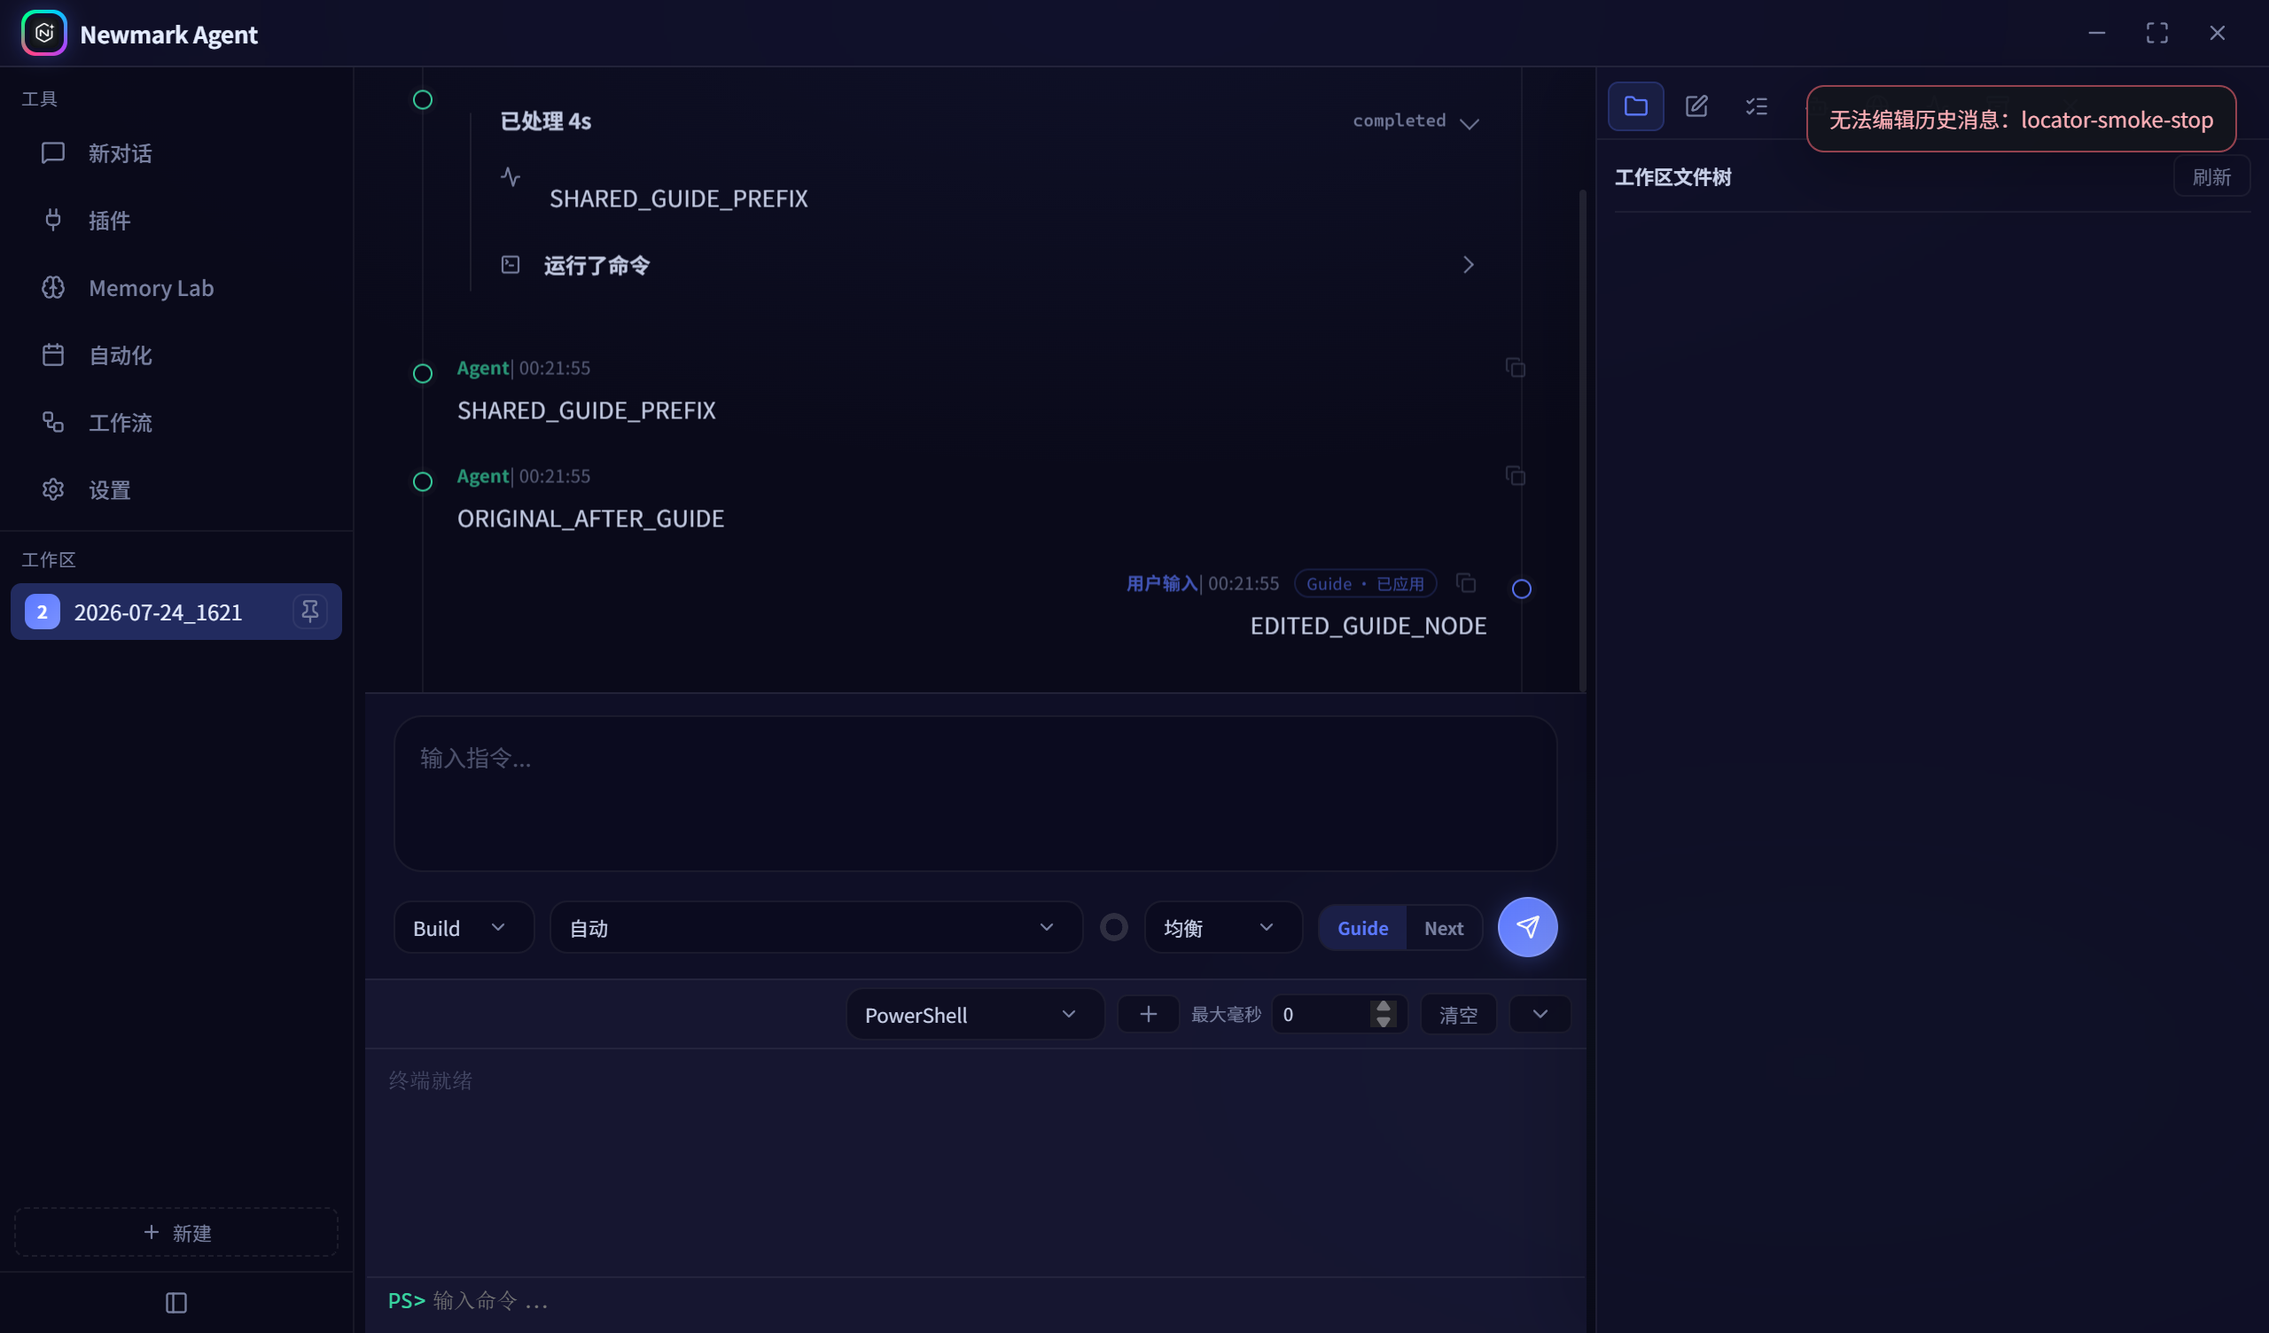
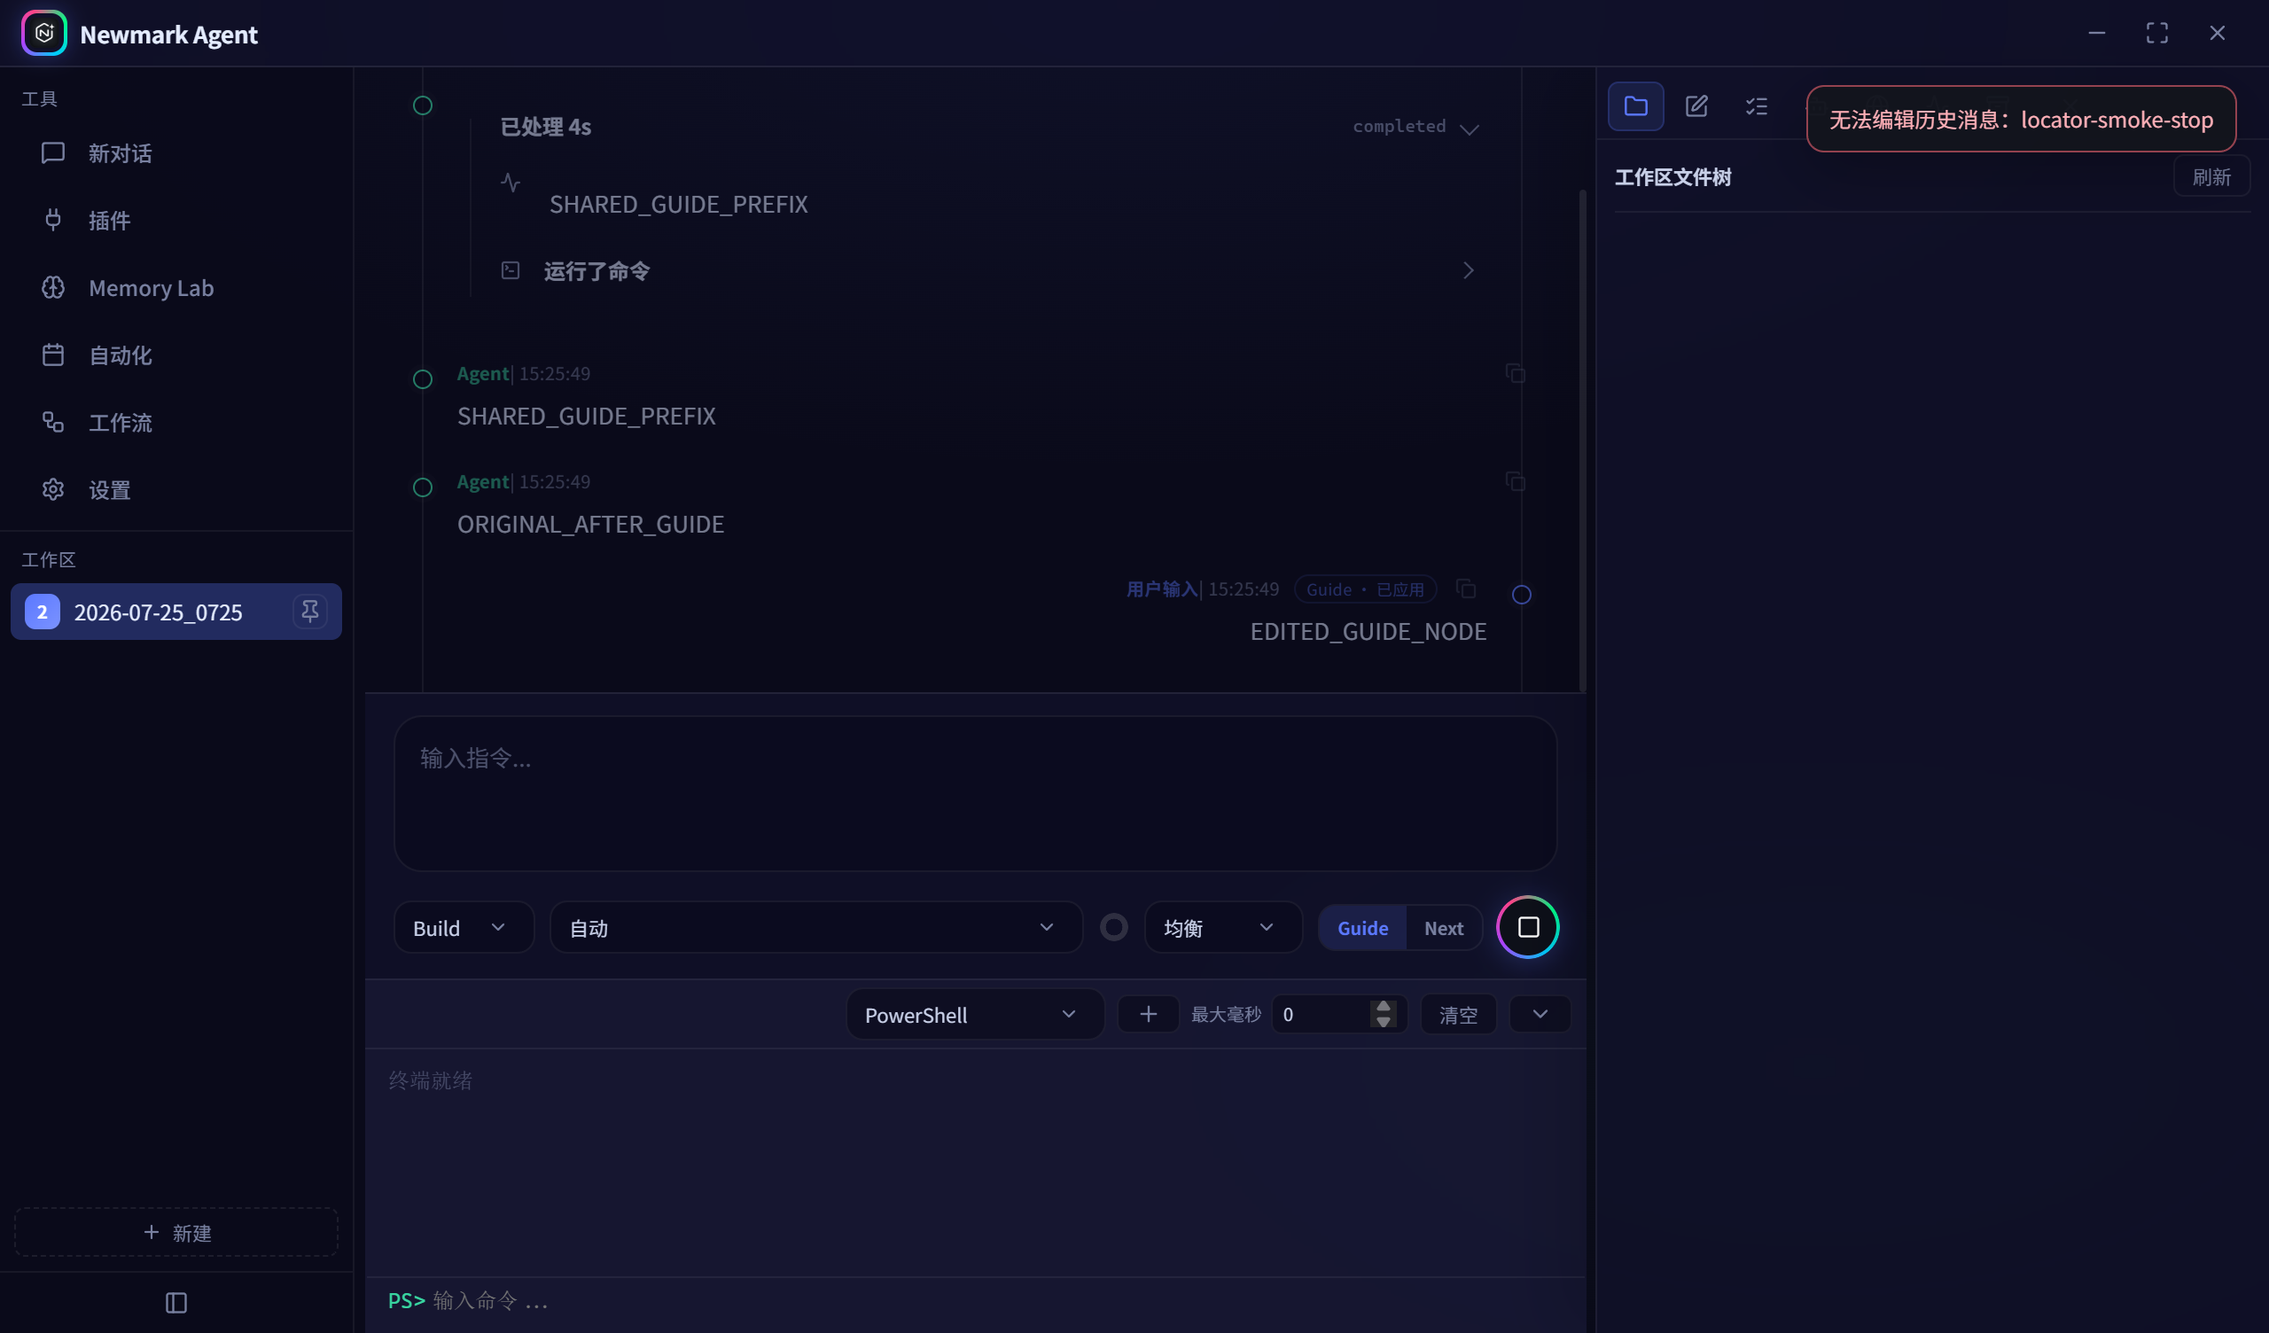
fix: isolate live work runs by conversation branch

diff --git a/DESKTOP/src/ui/index.html b/DESKTOP/src/ui/index.html
@@ -4903,6 +4903,7 @@ var state = {
   agentWorkEventsByConversation: {},
   agentWorkUiByConversation: {},
   workRunsByTarget: {},
+  workRunsByBranch: {},
   guideMessagesByTarget: {},
   agentWorkEventLimit: 240,
   foregroundConversationHoldId: '',
@@ -7244,7 +7245,6 @@ window.switchConversationBranch = async function(offset, branchGroupId) {
   var result = await branchApi.inspectConversationBranch(currentConversationTarget(), branches[next].id, group ? group.id : (state.activeConversationBranchGroupId || ''));
   if (!result || result.error) return showUiNotice((result && result.error) || 'Unable to switch branch.', 'error', 'conversation-branch');
   var target = currentConversationTarget();
-  clearAgentWorkEvents(target.conversationId);
   resetConversationWorkUi(target.conversationId, false, target.workspaceId);
   state.conversationBranches = result.branches || [];
   state.conversationBranchGroups = Array.isArray(result.branchGroups) ? result.branchGroups : [];
@@ -7253,6 +7253,7 @@ window.switchConversationBranch = async function(offset, branchGroupId) {
   state.activeConversationBranchGroupId = String(result.branchGroupId || state.activeConversationBranchGroupId || '');
   syncWorkRunsSnapshot(Array.isArray(result.workRuns) ? result.workRuns : [], target);
   renderChatMessages(result.chatMessages || []);
+  if (isViewingRuntimeConversationBranch(target)) replayActiveAgentWorkEvents();
 };
 
 function isViewingRuntimeConversationBranch(target) {
@@ -7731,7 +7732,7 @@ function registerRuntimeKey(target, runtimeKey) {
   if (!state.runtimeKeyAliases) state.runtimeKeyAliases = {};
   state.runtimeKeyAliases[base] = runtimeKey;
   if (previous !== runtimeKey) {
-    ['runningConversations', 'conversationRuntimeStates', 'agentWorkEventsByConversation', 'agentWorkUiByConversation', 'workRunsByTarget', 'guideMessagesByTarget', 'trackedConversationUntil', 'backendQueuesByTarget', 'activeSendCallsByTarget', 'nextQueueSchedulesByTarget', 'nextQueueDrainsByTarget'].forEach(function(storeName) {
+    ['runningConversations', 'conversationRuntimeStates', 'agentWorkEventsByConversation', 'agentWorkUiByConversation', 'workRunsByTarget', 'workRunsByBranch', 'guideMessagesByTarget', 'trackedConversationUntil', 'backendQueuesByTarget', 'activeSendCallsByTarget', 'nextQueueSchedulesByTarget', 'nextQueueDrainsByTarget'].forEach(function(storeName) {
       var store = state[storeName];
       if (!store || store[previous] === undefined) return;
       if (store[runtimeKey] === undefined) store[runtimeKey] = store[previous];
@@ -7924,7 +7925,8 @@ function setConversationRuntimeState(target, status, runId, extra) {
   if (!state.runningConversations) state.runningConversations = {};
   if (['running', 'stopping', 'force_restarting'].indexOf(next.status) >= 0) state.runningConversations[key] = next;
   else delete state.runningConversations[key];
-  var runs = state.workRunsByTarget && state.workRunsByTarget[key] || [];
+  var branchIds = conversationBranchIdsForTarget(target);
+  var runs = workRunsForBranch(target, branchIds.runtime || branchIds.viewed);
   var matchingRun = next.runId && runs.find(function(item) { return String(item.runId || '') === next.runId; });
   if (matchingRun) {
     matchingRun.status = next.status;
@@ -7932,7 +7934,10 @@ function setConversationRuntimeState(target, status, runId, extra) {
       if (!matchingRun.endedAt) matchingRun.endedAt = new Date().toISOString();
       if (matchingRun.userToggled !== true) matchingRun.expanded = false;
     }
-    if (isActiveConversationTarget(next.target)) updateConversationWorkRunElement(matchingRun);
+    if (isActiveConversationTarget(next.target) && (!branchIds.viewed || !branchIds.runtime || branchIds.viewed === branchIds.runtime)) {
+      state.workRunsByTarget[key] = runs;
+      updateConversationWorkRunElement(matchingRun);
+    }
   }
   state._sendInFlight = Object.keys(state.runningConversations).length > 0;
   return next;
@@ -8095,19 +8100,46 @@ function normalizedWorkRun(run, target) {
   };
 }
 
+function conversationBranchIdsForTarget(target) {
+  target = target || currentConversationTarget();
+  if (!isActiveConversationTarget(target)) return { viewed: '', runtime: '' };
+  return {
+    viewed: String(state.activeConversationBranchId || ''),
+    runtime: String(state.runtimeConversationBranchId || state.activeConversationBranchId || '')
+  };
+}
+
+function workRunBranchKey(target, branchId) {
+  var runtimeKey = runtimeKeyFor(target.workspaceId, target.conversationId);
+  return runtimeKey + '::branch::' + String(branchId || 'linear');
+}
+
+function workRunsForBranch(target, branchId) {
+  target = target || currentConversationTarget();
+  if (!state.workRunsByBranch) state.workRunsByBranch = {};
+  var key = workRunBranchKey(target, branchId);
+  if (!state.workRunsByBranch[key]) state.workRunsByBranch[key] = [];
+  return state.workRunsByBranch[key];
+}
+
 function workRunsForTarget(target) {
   target = target || currentConversationTarget();
   var key = runtimeKeyFor(target.workspaceId, target.conversationId);
   if (!state.workRunsByTarget) state.workRunsByTarget = {};
-  if (!state.workRunsByTarget[key]) state.workRunsByTarget[key] = [];
+  if (!state.workRunsByTarget[key]) {
+    var branchIds = conversationBranchIdsForTarget(target);
+    state.workRunsByTarget[key] = workRunsForBranch(target, branchIds.viewed);
+  }
   return state.workRunsByTarget[key];
 }
 
-function syncWorkRunsSnapshot(runs, target) {
+function syncWorkRunsSnapshot(runs, target, branchId) {
   target = target || currentConversationTarget();
   syncGuideMessagesFromWorkRuns(runs, target);
   var key = runtimeKeyFor(target.workspaceId, target.conversationId);
-  var prior = workRunsForTarget(target);
+  var branchIds = conversationBranchIdsForTarget(target);
+  var selectedBranchId = branchId === undefined ? branchIds.viewed : String(branchId || '');
+  var prior = workRunsForBranch(target, selectedBranchId);
   var normalized = (Array.isArray(runs) ? runs : []).map(function(run) {
     var item = normalizedWorkRun(run, target);
     var previous = prior.find(function(priorRun) { return priorRun.runId === item.runId; });
@@ -8119,8 +8151,24 @@ function syncWorkRunsSnapshot(runs, target) {
       var isLive = ['running', 'stopping', 'force_restarting'].indexOf(item.status) >= 0;
       item.expanded = isLive ? true : (wasLive ? false : item.expanded);
     }
+    if (previous) {
+      var snapshotEventIds = {};
+      item.events.forEach(function(event) { snapshotEventIds[String(event.id || '')] = true; });
+      var liveOnlyEvents = previous.events.filter(function(event) {
+        return !snapshotEventIds[String(event.id || '')] && Number(event.sequence || 0) > Number(item.sequence || 0);
+      });
+      if (liveOnlyEvents.length) {
+        item.events = dedupeGuideWorkEvents(item.events.concat(liveOnlyEvents)).sort(function(a, b) { return Number(a.sequence || 0) - Number(b.sequence || 0); });
+        item.sequence = Math.max(Number(item.sequence || 0), Number(previous.sequence || 0));
+        if (['running', 'stopping', 'force_restarting'].indexOf(String(previous.status || '')) >= 0) {
+          item.status = previous.status;
+          item.endedAt = previous.endedAt;
+        }
+      }
+    }
     return item;
   });
+  state.workRunsByBranch[workRunBranchKey(target, selectedBranchId)] = normalized;
   state.workRunsByTarget[key] = normalized;
   return normalized;
 }
@@ -8631,7 +8679,9 @@ function applyAgentWorkEventToRun(event) {
     workspaceId: String(event.workspaceId || (event.target && event.target.workspaceId) || runtimeWorkspaceId('')),
     conversationId: String(event.conversationId || (event.target && event.target.conversationId) || 'default')
   };
-  var runs = workRunsForTarget(target);
+  var branchIds = conversationBranchIdsForTarget(target);
+  var eventBranchId = branchIds.runtime || branchIds.viewed;
+  var runs = workRunsForBranch(target, eventBranchId);
   var run = runs.find(function(item) { return item.runId === String(event.runId); });
   if (!run) {
     run = normalizedWorkRun({ runId: event.runId, status: 'running', startedAt: event.startedAt || event.timestampIso || new Date().toISOString(), events: [] }, target);
@@ -8663,6 +8713,7 @@ function applyAgentWorkEventToRun(event) {
     var eventId = String(event.id || [event.sequence || '', type, event.timestamp || '', event.content || ''].join('|'));
     if (!run.events.some(function(item) { return String(item.id || '') === eventId; })) run.events.push(Object.assign({}, event, { id: eventId }));
   }
+  run.sequence = Math.max(Number(run.sequence || 0), Number(event.sequence || 0));
   if (type === 'done') { run.status = 'completed'; run.endedAt = event.endedAt || event.timestampIso || new Date().toISOString(); if (run.userToggled !== true) run.expanded = false; }
   else if (type === 'error') { run.status = 'error'; run.endedAt = event.endedAt || event.timestampIso || new Date().toISOString(); if (run.userToggled !== true) run.expanded = false; }
   else if (type === 'interrupted') { run.status = 'interrupted'; run.endedAt = event.endedAt || event.timestampIso || new Date().toISOString(); if (run.userToggled !== true) run.expanded = false; }
@@ -8674,7 +8725,10 @@ function applyAgentWorkEventToRun(event) {
       if (run.userToggled !== true) run.expanded = false;
     }
   }
-  if (isActiveConversationTarget(target)) renderConversationWorkRun(run);
+  if (isActiveConversationTarget(target) && (!branchIds.viewed || !eventBranchId || branchIds.viewed === eventBranchId)) {
+    state.workRunsByTarget[runtimeKeyFor(target.workspaceId, target.conversationId)] = runs;
+    renderConversationWorkRun(run);
+  }
   return run;
 }
 
@@ -9299,9 +9353,9 @@ function applyConversationSnapshot(s, requestedConversationId) {
       conversationId: String((s && (s.conversationId || (s.target && s.target.conversationId))) || requestedConversationId)
     };
     if (s && s.runtimeKey) registerRuntimeKey(snapshotTarget, s.runtimeKey);
-    if (s && Array.isArray(s.workRuns)) syncWorkRunsSnapshot(s.workRuns, snapshotTarget);
-    applyAutoRouteRatingState(s);
     hydrateConversationBranchState(s);
+    if (s && Array.isArray(s.workRuns)) syncWorkRunsSnapshot(s.workRuns, snapshotTarget, String(s.activeBranchId || ''));
+    applyAutoRouteRatingState(s);
     if (s && s.chatMessages) renderChatMessages(s.chatMessages);
     if (s && s.conversationId) {
       state.activeBackendConversationId = s.conversationId;

diff --git a/DESKTOP/src/tests/verify.ts b/DESKTOP/src/tests/verify.ts
@@ -485,6 +485,7 @@ async function main() {
   assert(uiHtml.includes("syncWorkRunsSnapshot(Array.isArray(result.workRuns) ? result.workRuns : [], target)") && uiHtml.includes("div.setAttribute('data-message-index'") && uiHtml.includes(".chat-msg.user[data-message-index=\"") && !uiHtml.includes("querySelector('.chat-msg.user:last-of-type')"), 'ui html: branch switching replaces the cached Build list and anchors inline page navigation at the edited user node instead of the conversation tail');
   assert(preloadSource.includes('inspectConversationBranch:') && preloadSource.includes('activateConversationBranch:') && mainSource.includes("ipcMain.handle('agent:inspectConversationBranch'") && mainSource.includes("ipcMain.handle('agent:activateConversationBranch'") && uiHtml.includes('branchApi.inspectConversationBranch(currentConversationTarget(), branches[next].id, group ? group.id') && uiHtml.includes('async function activateViewedConversationBranchForSend(target)') && uiHtml.includes('!await activateViewedConversationBranchForSend(lockedTarget)'), 'branch paging: arrow navigation is read-only, while sending explicitly activates the viewed branch');
   assert(uiHtml.includes('var visibleRuntimeBranch = active && isViewingRuntimeConversationBranch(target);') && uiHtml.includes('if (visibleRuntimeBranch) renderAgentWorkEvent(event);') && uiHtml.includes('isActiveConversationTarget(lockedTarget) && isViewingRuntimeConversationBranch(lockedTarget)'), 'branch paging: background runtime events and completed send results cannot render into an inspected sibling branch');
+  assert(uiHtml.includes('workRunsByBranch') && uiHtml.includes('function workRunBranchKey(target, branchId)') && uiHtml.includes('function workRunsForBranch(target, branchId)') && uiHtml.includes('var eventBranchId = branchIds.runtime || branchIds.viewed;') && uiHtml.includes('run.sequence = Math.max(Number(run.sequence || 0), Number(event.sequence || 0));') && uiHtml.includes('if (isViewingRuntimeConversationBranch(target)) replayActiveAgentWorkEvents();'), 'branch paging: live WorkRuns remain owned and versioned by the runtime branch while sibling pages are inspected, then replay only after returning');
   const editSubmitSource = uiHtml.match(/window\.submitUserMessageEdit = async function[\s\S]*?\n\};/)?.[0] || '';
   assert(uiHtml.includes('async function stopTargetConversationForMessageEdit(target)') && uiHtml.includes("api.stopConversation({ target: target, runId: runId, force: false })") && uiHtml.includes("api.stopConversation({ target: target, runId: runId, force: true })") && editSubmitSource.indexOf('renderProvisionalEditedBranch(') >= 0 && editSubmitSource.indexOf('renderProvisionalEditedBranch(') < editSubmitSource.indexOf('stopTargetConversationForMessageEdit(target)') && uiHtml.includes('restoreProvisionalEditedBranch(provisionalSnapshot, target)') && uiHtml.includes("delete state.activeSendCallsByTarget[runtimeKey]") && uiHtml.includes('optimisticMessageIndex: Number(messageIndex)') && uiHtml.includes('renderConversationBranchPagers();'), 'ui html: edit submit immediately renders the isolated new page before stopping only the selected conversation, and rolls back if persistence fails');
   assert(uiHtml.includes('function renderProvisionalEditedBranch(message, messageIndex, editedText, target, editingGuide)') && uiHtml.includes("if (!editingGuide) return [];") && uiHtml.includes('copiedRun.events = guideIndex >= 0 ? events.slice(0, guideIndex)') && uiHtml.includes("type: 'guide_applied'") && uiHtml.includes('state.renderedChatMessages = Array.isArray(messages)'), 'ui html: provisional message edits remove the owning Build immediately while Guide edits preserve only the owning Build prefix and replace the Guide node in place');

diff --git a/DESKTOP/src/tests/queueAttachmentIsolationVerify.ts b/DESKTOP/src/tests/queueAttachmentIsolationVerify.ts
@@ -55,6 +55,9 @@ function verifyPersistedWorkRunsCannotRewriteRuntimeIdentity(source: string): vo
     'dedupeGuideWorkEvents',
     'publicWorkEventForUi',
     'normalizedWorkRun',
+    'conversationBranchIdsForTarget',
+    'workRunBranchKey',
+    'workRunsForBranch',
     'workRunsForTarget',
     'syncWorkRunsSnapshot',
   ].map(name => functionSource(source, name)).join('\n\n');
@@ -72,6 +75,7 @@ function verifyPersistedWorkRunsCannotRewriteRuntimeIdentity(source: string): vo
     agentWorkEventsByConversation: {},
     agentWorkUiByConversation: {},
     workRunsByTarget: {},
+    workRunsByBranch: {},
     guideMessagesByTarget: {},
     trackedConversationUntil: {},
     activeSendCallsByTarget: {},
@@ -84,7 +88,7 @@ function verifyPersistedWorkRunsCannotRewriteRuntimeIdentity(source: string): vo
   };
   const guideTargets: Array<{ workspaceId: string; conversationId: string }> = [];
   const windowObject: Record<string, any> = {};
-  const install = new Function('window', 'state', 'currentConversationTarget', 'recordGuideUiMessage', `
+  const install = new Function('window', 'state', 'currentConversationTarget', 'recordGuideUiMessage', 'isActiveConversationTarget', `
     ${helpers}
     window.runtimeKeyFor = runtimeKeyFor;
     window.registerRuntimeKey = registerRuntimeKey;
@@ -96,6 +100,7 @@ function verifyPersistedWorkRunsCannotRewriteRuntimeIdentity(source: string): vo
     state,
     () => ({ ...targetA }),
     (_input: Record<string, any>, target: typeof targetA) => { guideTargets.push({ ...target }); },
+    () => false,
   );
 
   windowObject.registerRuntimeKey(targetA, runtimeA);
